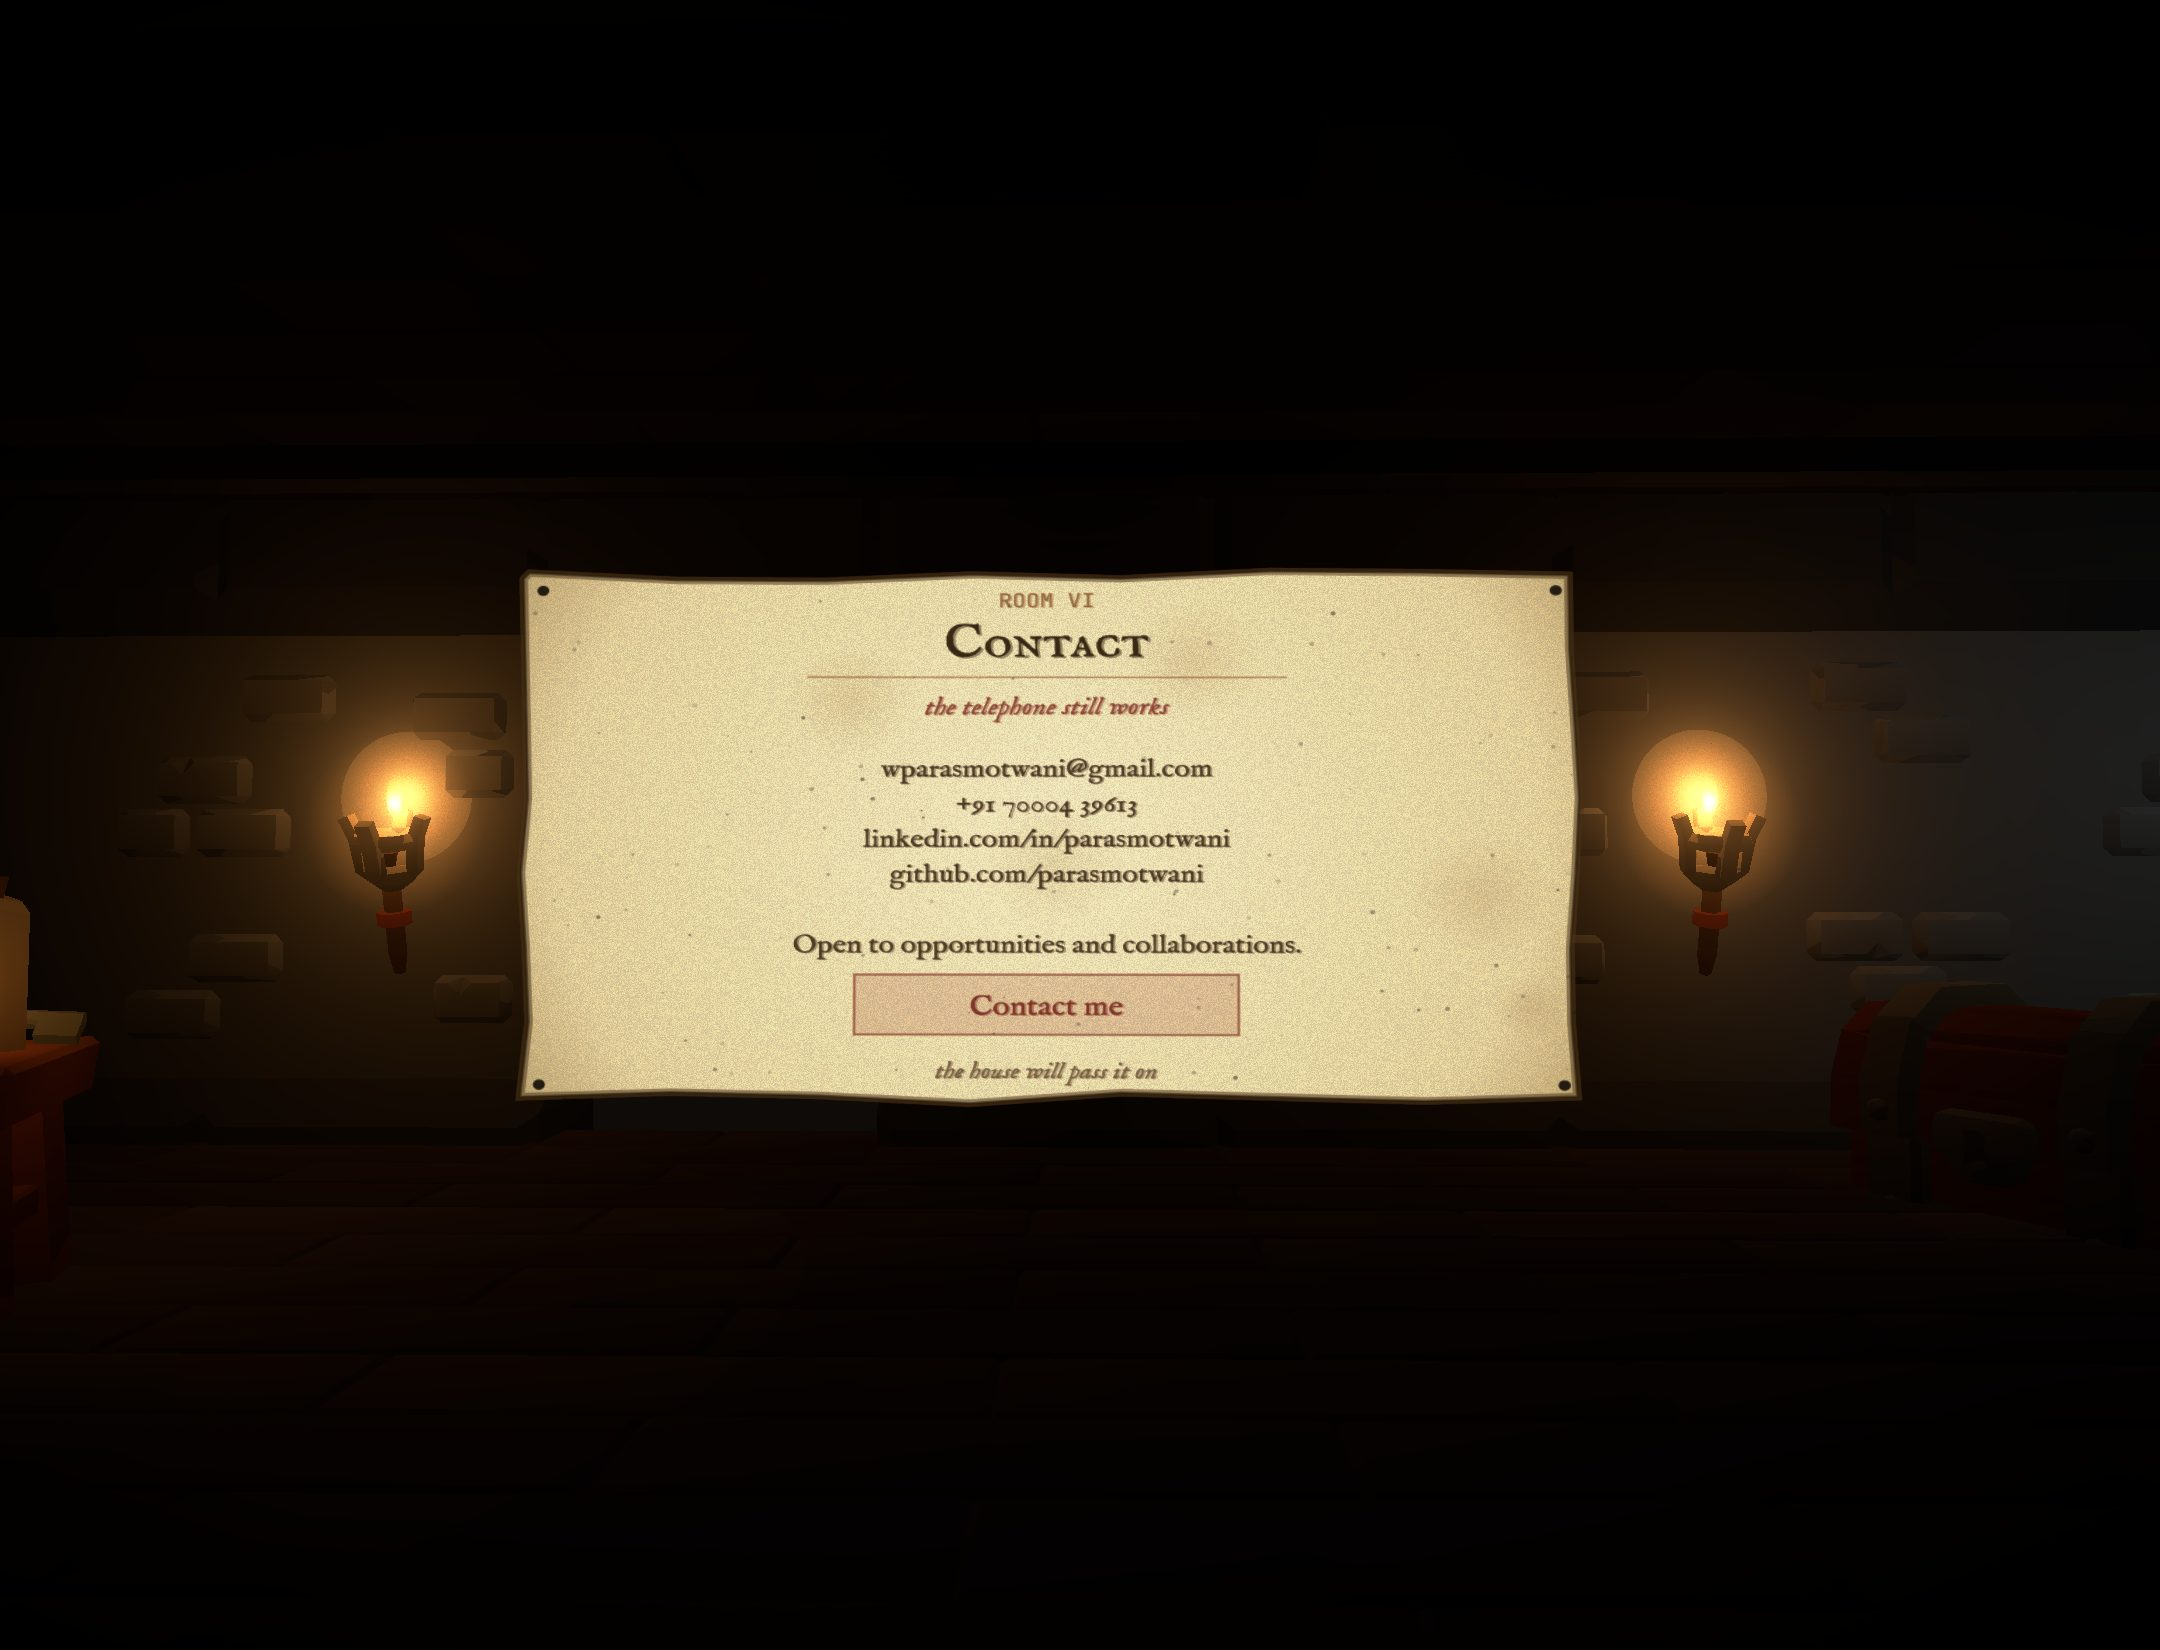
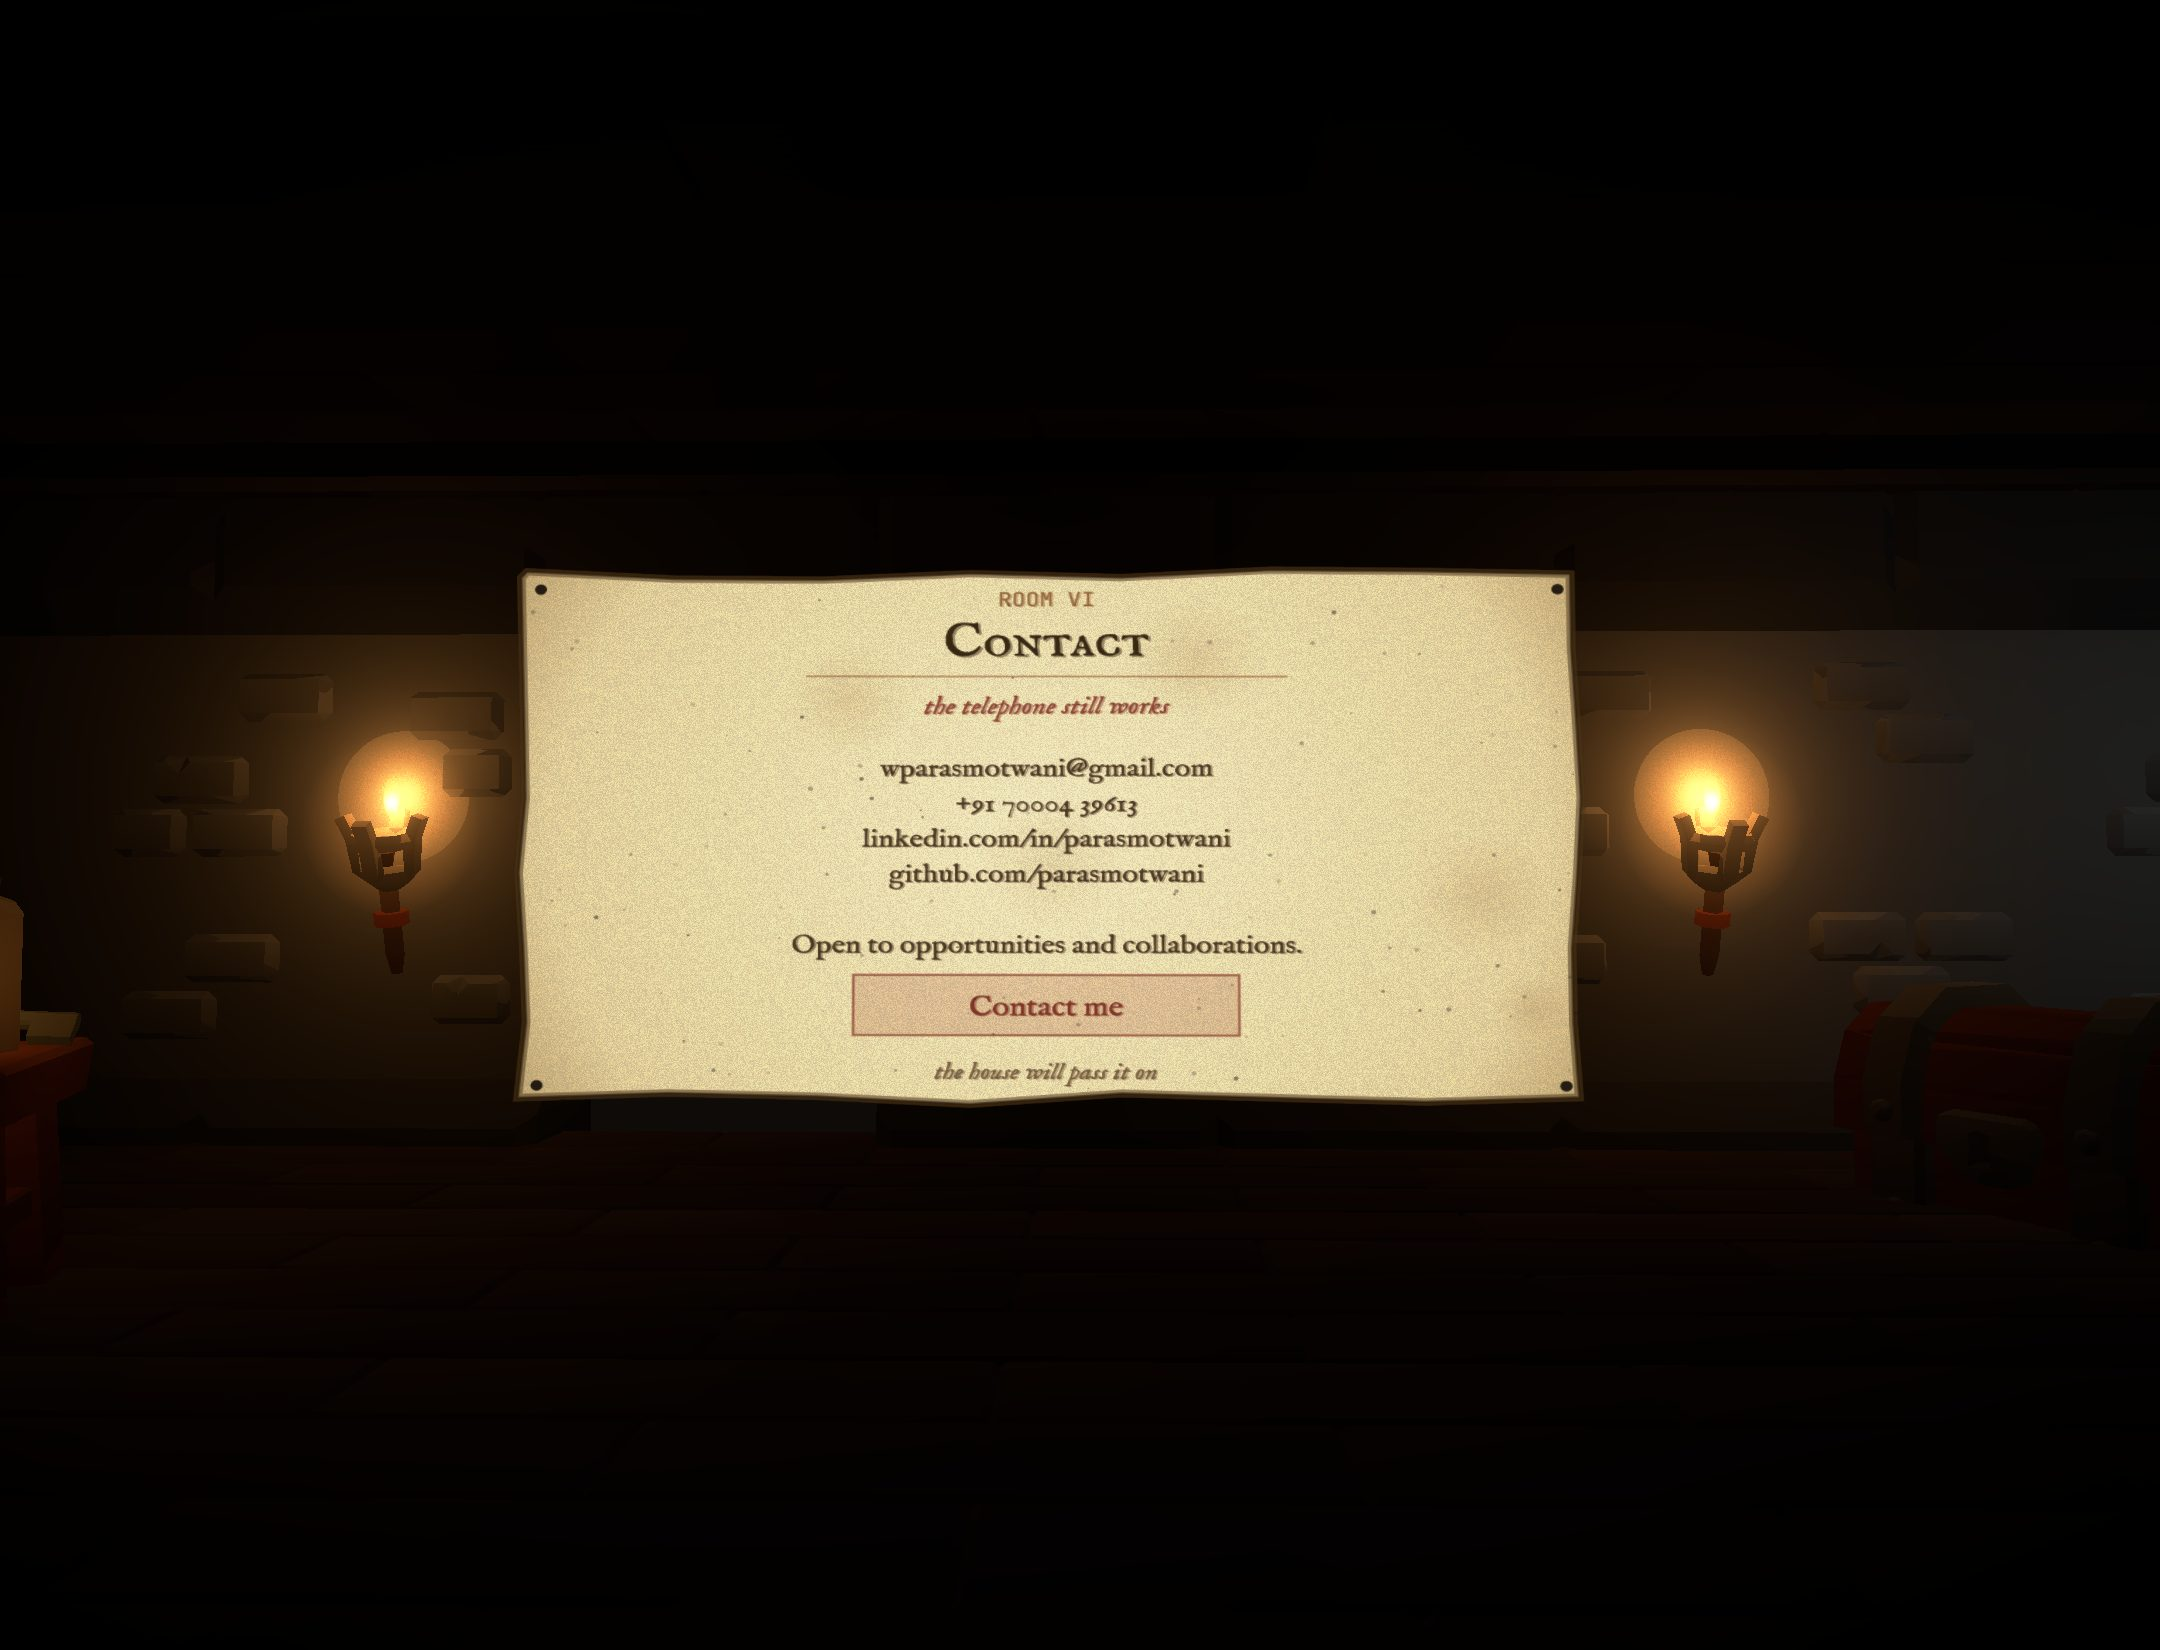
fix: the DOM stops covering the rooms; overlays lock the page
.chapter--diegetic hid only .chapter-head, so every section's actual body
kept rendering on top of its room: the contact heading and form, the
project cards, the experience list. That is the hovering text, and on the
contact board it sat over the "Contact me" control and swallowed the
clicks, which is why the button did nothing. The whole section is taken
out of the picture now and kept for screen readers and search; the
exceptions are the things that ARE the interaction — the in-room controls
and the panels they open. The game's canvas is excluded too, because it is
the source texture for the cabinet screen and a 1px canvas draws a 1px
attract card.

The darkness lines everywhere were .room-shade: a full-bleed black panel
from the old cut-to-black transitions, left at whatever opacity a
half-finished scrub put it. Rooms are walked into through doorways now, so
it is gone from every room.

Nothing scrolls while an overlay owns the screen. Playing with the page
live underneath meant a stray wheel nudge slid the room out from behind
the cabinet mid-game. Lenis drives its own scroll and ignores overflow, so
it is stopped explicitly.

The OS cursor is hidden: the site already draws a gold dot with a lagging
ring AND has the visitor carrying a lantern, so the arrow was a third
pointer. Inputs and the letter keep a real cursor.

Room I: the chalk nudge is gone (it lay flat mid-room and read as stray
text), and the drawer's leak is tuned so it reveals the hutch instead of
[…]

diff --git a/src/scene/StudyRoom.jsx b/src/scene/StudyRoom.jsx
@@ -251,18 +251,23 @@ function Wardrobe() {
 }
 
 // ---------- the hutch: shelves of what was left, and THE drawer ----------
-// Right wall, set back. This has to satisfy two things that pull against
-// each other: clear of the walk (Room I leaves by the door at x 4.5, and
-// the curve from z 1.0 to z -5.7 passes x ~3.9 at mid-room), and still in
-// frame (the camera centres on x -0.15, so anything past x ~5 at close
-// range falls off the right edge, and anything nearer than z ~2 fills half
-// the shot and covers the board). Pushed to the wall at x 6.1 and set back
-// to z -1.5 it clears the path by over two units and still reads.
+// Right wall, pushed as far back into the corner as the wall allows.
+//
+// KNOWN ISSUE: the camera still passes close to this on the way out.
+// Room I leaves by the door at x 4.5 and the walk curve owns roughly
+// x 3..5 from z 1 back to z -5.7, while the right wall is at x 7.5 —
+// about three units, most of it the camera's. Moving the hutch left or
+// back far enough to clear the path puts it outside the frame or into
+// the wardrobe's shadow, where an unlit cabinet in a now genuinely dark
+// room simply cannot be seen, and the easter egg disappears. The real
+// fix is to move Room I's DOORWAY left (doorCol) so the walk and the
+// furniture stop sharing the same three units, which is a change to the
+// room shell rather than the dressing.
 function Hutch({ glintRef, leakRef }) {
   const wood = { color: '#2e2114', roughness: 0.8 }
   const woodDark = { color: '#221709', roughness: 0.85 }
   return (
-    <group position={[6.1, 0, -1.5]} rotation={[0, -Math.PI / 2, 0]}>
+    <group position={[6.3, 0, -2.9]} rotation={[0, -Math.PI / 2, 0]}>
       {/* lower cabinet + counter */}
       <mesh position={[0, -1.72, 0]} castShadow receiveShadow>
         <boxGeometry args={[3.0, 1.35, 0.85]} />
@@ -333,7 +338,7 @@ function Hutch({ glintRef, leakRef }) {
             scenery — this is the difference between an object you notice
             and one you walk past. Warm, weak, and slowly breathing, so it
             draws the eye without announcing itself as UI. */}
-        <pointLight ref={leakRef} position={[0, 0.02, 0.62]} color="#f0c98a" intensity={0} distance={5.5} decay={1.8} />
+        <pointLight ref={leakRef} position={[0, 0.05, 0.7]} color="#f0c98a" intensity={0} distance={4.2} decay={1.9} />
         <mesh ref={glintRef} position={[0.1, 0.16, 0.5]} rotation={[-1.25, 0.1, 0.08]}>
           <planeGeometry args={[0.46, 0.14]} />
           <meshStandardMaterial
@@ -634,20 +639,10 @@ function StudyCopy() {
         ]}
         foot="something in here is worth opening"
       />
-      {/* the nudge toward the easter egg, chalked on the floor by the hutch */}
-      <Inscription
-        position={[3.7, -1.02, -3.4]}
-        rotation={[-Math.PI / 2, 0, 0.12]}
-        size={[2.2, 0.58]}
-        w={512}
-        h={136}
-        draw={(g, w, h) => {
-          g.clearRect(0, 0, w, h)
-          roughText(g, 'the drawer is ajar', w / 2, h / 2 + 12, 44, '#d8d2c0', 0.5, {
-            font: '"IM Fell English", serif', style: 'italic',
-          })
-        }}
-      />
+      {/* The chalk nudge is gone. It sat flat on the floor mid-room, which
+          from the room's camera reads as a smear of stray text lying in
+          the air rather than writing on boards — and the drawer now leaks
+          light, which says the same thing without words. */}
     </group>
   )
 }
@@ -673,7 +668,7 @@ export default function StudyRoom({ lit }) {
       swayRef.current.rotation.x = Math.sin(t * 0.38 + 1) * 0.03
     }
     if (leakRef.current) {
-      leakRef.current.intensity = 6.5 + Math.sin(t * 1.6) * 2.2
+      leakRef.current.intensity = 5.4 + Math.sin(t * 1.6) * 1.8
     }
     if (glintRef.current) {
       glintRef.current.material.emissiveIntensity = 0.5 + Math.sin(t * 2.1) * 0.3

diff --git a/src/index.css b/src/index.css
@@ -264,15 +264,25 @@ button {
    nothing hovers in front of the room repeating what it already says.
    Anything interactive (project links, the contact form, the machine in
    Room III) is NOT marked and stays visible. */
-.chapter--diegetic .chapter-head,
-.chapter--diegetic [data-diegetic] {
-  position: absolute;
-  width: 1px; height: 1px;
-  padding: 0; margin: -1px;
-  overflow: hidden;
+/* In a room, the DOM says NOTHING. The walls carry the copy.
+   This used to hide only .chapter-head, which left every section's actual
+   body — the contact heading and form, the project cards, the experience
+   list — rendering on top of the room. That is the hovering text, and on
+   the contact board it sat over the "Contact me" control and swallowed the
+   clicks. Everything is taken out of the picture now and kept for screen
+   readers and search; the exceptions are the things that ARE the
+   interaction: the in-room controls and the panels they open. */
+.chapter--diegetic > *:not(.reach):not(.letter-backdrop):not(.room-shade):not(.booklet-backdrop):not(.crt-backdrop):not(.gameroom-scene) {
+  position: absolute !important;
+  width: 1px !important;
+  height: 1px !important;
+  padding: 0 !important;
+  margin: -1px !important;
+  overflow: hidden !important;
   clip-path: inset(50%);
   white-space: nowrap;
   border: 0;
+  pointer-events: none;
 }
 
 /* copy that belongs to a room is inked into the room; this keeps the same
@@ -2524,4 +2534,49 @@ html.lights-on .cursor-ring { opacity: 1; }
   opacity: 1 !important;
   transform: none !important;
   filter: none !important;
+}
+
+/* The game's canvas has to keep real layout size even while stowed: it is
+   the source texture for the cabinet's screen, and a 1px canvas draws a
+   1px attract card. Hidden by opacity, not by collapsing. */
+.chapter--diegetic > .gameroom-scene { pointer-events: none; }
+.chapter--diegetic > .gameroom-scene .crt-unit--stowed { pointer-events: none; }
+.chapter--diegetic > .gameroom-scene .crt-unit.expanded { pointer-events: auto; }
+
+/* Nothing scrolls while an overlay owns the screen. Playing the game with
+   the page still moving underneath means a stray wheel nudge slides the
+   room out from behind the cabinet mid-game; the same goes for the book
+   and the letter. Lenis is told to stop as well, since it drives its own
+   scroll and ignores overflow alone. */
+html.overflow-lock,
+html.overflow-lock body {
+  overflow: hidden !important;
+  touch-action: none;
+}
+
+/* The site draws its own cursor (a gold dot with a lagging ring) and
+   carries a lantern besides. The OS arrow on top of that is a third
+   pointer competing with two the house already provides. */
+html.lenis, html.lenis * { cursor: none; }
+/* …but never take the cursor away from something a visitor has to type in
+   or aim at precisely. */
+html.lenis input,
+html.lenis textarea,
+html.lenis select,
+html.lenis .letter,
+html.lenis .letter * { cursor: auto; }
+html.lenis a,
+html.lenis button,
+html.lenis [role="button"],
+html.lenis [data-hover] { cursor: none; }
+
+/* No shade over a room of the manor. The shade is a full-bleed black panel
+   used to close a section before the next one opens — it belongs to the
+   old cut-to-black transitions. Rooms are walked into through doorways
+   now, so the panel has nothing to do but sit there at whatever opacity a
+   half-finished scrub left it, which is the dark band across the middle of
+   the game room and the darkness lines elsewhere. */
+.chapter--diegetic .room-shade,
+.hero--diegetic .room-shade {
+  display: none !important;
 }

diff --git a/src/components/WorldGame.jsx b/src/components/WorldGame.jsx
@@ -149,6 +149,15 @@ export default function WorldGame() {
     screen.canvas = canvasRef.current
     return () => { screen.canvas = null }
   }, [])
+
+  // While you are playing, the page must not move under you. WASD does not
+  // scroll, but a trackpad or a wheel nudge did — you would be mid-game and
+  // the room would slide away behind the cabinet.
+  useEffect(() => {
+    if (!playing) return
+    document.documentElement.classList.add('overflow-lock')
+    return () => document.documentElement.classList.remove('overflow-lock')
+  }, [playing])
   const [panel, setPanel] = useState(null) // building object or null
   const [prompt, setPrompt] = useState(null) // label of nearby building
   const stateRef = useRef({

diff --git a/src/hooks/useScrollProgress.jsx b/src/hooks/useScrollProgress.jsx
@@ -32,6 +32,20 @@ export function ScrollProvider({ children }) {
     })
   }, [])
 
+  // Lenis drives its own scroll, so `overflow: hidden` alone does not stop
+  // it — the class is the signal and this is what acts on it.
+  useEffect(() => {
+    const el = document.documentElement
+    const obs = new MutationObserver(() => {
+      const locked = el.classList.contains('overflow-lock')
+      const l = lenisRef.current
+      if (!l) return
+      if (locked) l.stop(); else l.start()
+    })
+    obs.observe(el, { attributes: true, attributeFilter: ['class'] })
+    return () => obs.disconnect()
+  }, [])
+
   useEffect(() => {
     const reduced = window.matchMedia('(prefers-reduced-motion: reduce)').matches
 

diff --git a/src/components/DrawerRoom.jsx b/src/components/DrawerRoom.jsx
@@ -129,6 +129,12 @@ function Booklet({ open, page, setPage, toggle }) {
   // Esc closes it, like anything else you can put down
   useEffect(() => {
     if (!open) return
+    document.documentElement.classList.add('overflow-lock')
+    return () => document.documentElement.classList.remove('overflow-lock')
+  }, [open])
+
+  useEffect(() => {
+    if (!open) return
     const onKey = (e) => {
       if (e.key === 'Escape') toggle()
       if (e.key === 'ArrowRight') setPage((p) => Math.min(PAGES.length - 1, p + 1))

diff --git a/src/components/Contact.jsx b/src/components/Contact.jsx
@@ -62,6 +62,12 @@ export default function Contact() {
 
   useEffect(() => {
     if (!open) return
+    document.documentElement.classList.add('overflow-lock')
+    return () => document.documentElement.classList.remove('overflow-lock')
+  }, [open])
+
+  useEffect(() => {
+    if (!open) return
     const onKey = (e) => { if (e.key === 'Escape') setOpen(false) }
     window.addEventListener('keydown', onKey)
     return () => window.removeEventListener('keydown', onKey)
